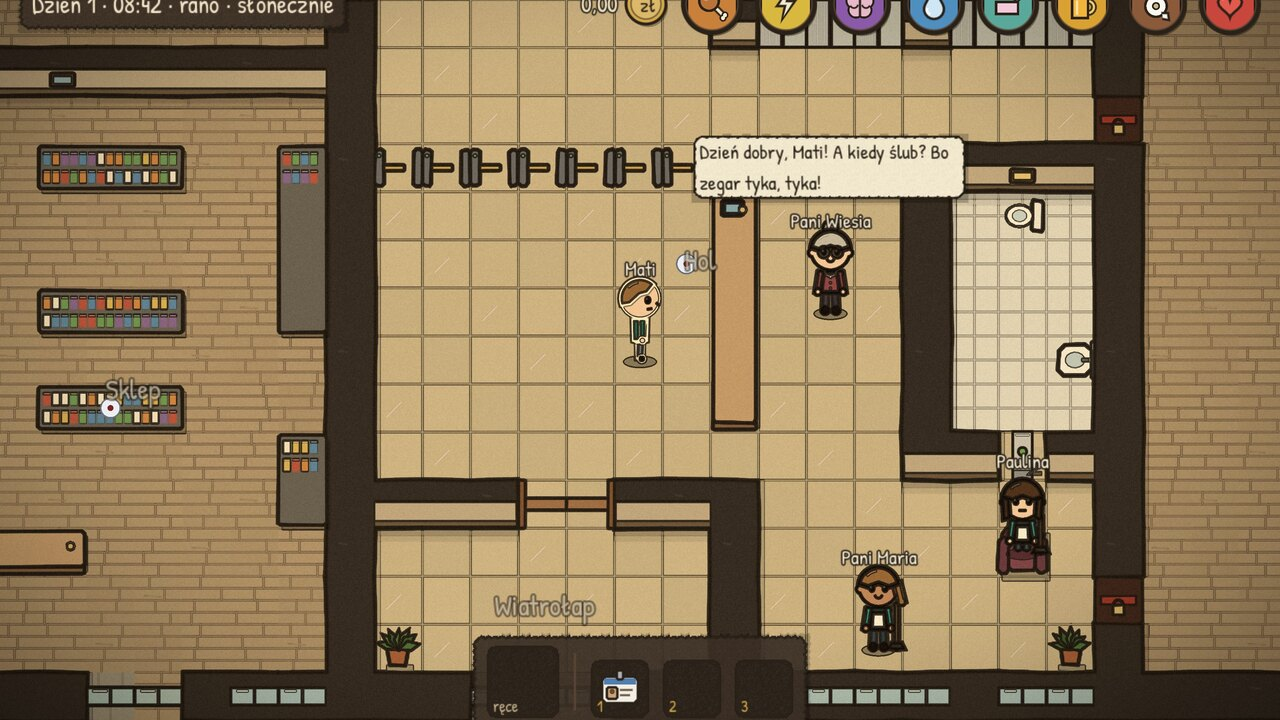
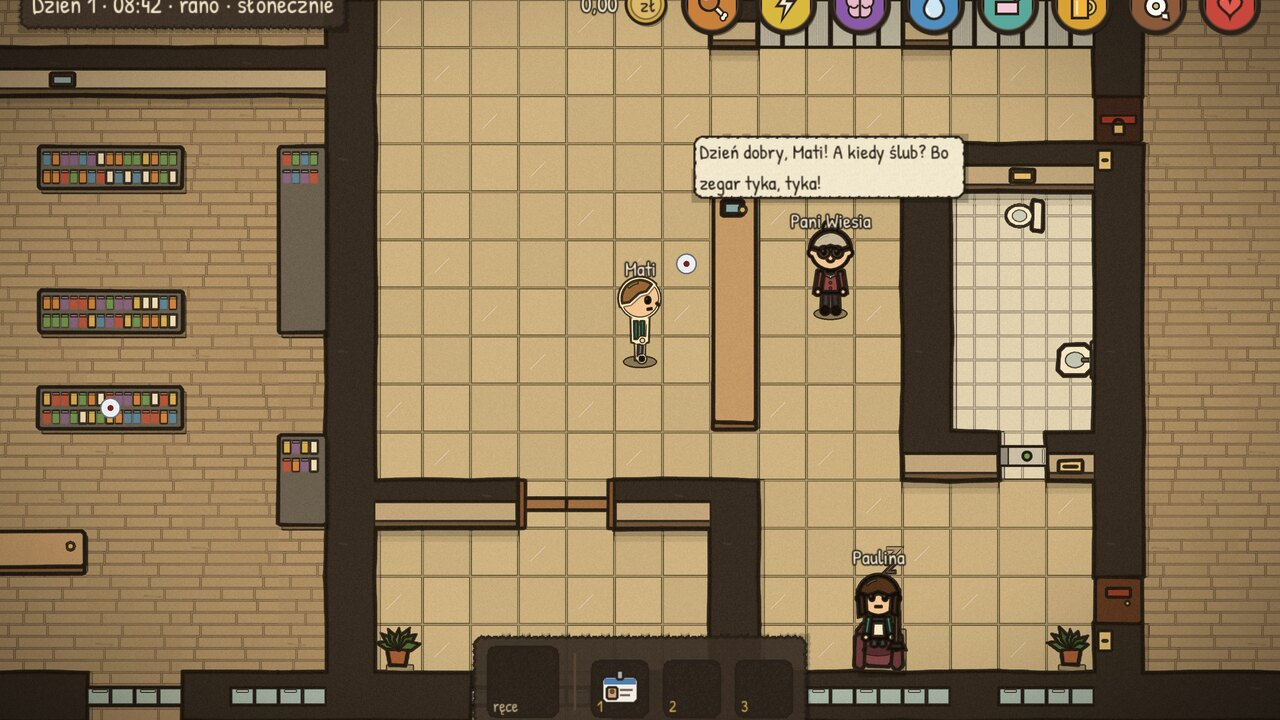
Nowy zwiastun i 4 zrzuty z mapy w README
- Zwiastun nagrany od nowa na obecnej mapie: deszcz - chodnikiem obok
  zamkniętego zjazdu do garażu pod wiatę palarni („Palarnia jak przystanek
  - autobus nie przyjedzie”), hol z panią Wiesią i Pauliną w fotelu,
  biuro, chill room (telewizor na nowym miejscu), sklep z kasjerem; GIF w
  README odświeżony.
- Galeria: 4 zrzuty z mapy (palarnia, portiernia, chill room, sklep)
  zamiast 10; w „Co jest w grze” bez „Psot” i „Oprawy”.

diff --git a/README.md b/README.md
@@ -12,7 +12,7 @@
 ![Rust](https://img.shields.io/badge/serwer-Rust-orange?logo=rust)
 ![Godot 4](https://img.shields.io/badge/klient-Godot%204-478cbf?logo=godotengine&logoColor=white)
 
-<img src="docs/media/zwiastun.gif" alt="Zwiastun: dojazd w deszczu, portiernia, biuro, chill room, sklep" width="720">
+<img src="docs/media/zwiastun.gif" alt="Zwiastun: palarnia w deszczu, portiernia, biuro, chill room, sklep" width="720">
 
 [**Pobierz na macOS**](https://github.com/mateuszpalak/startup-sim/releases/latest) ·
 [Sterowanie](docs/gra/sterowanie.md) ·
@@ -43,24 +43,12 @@ i tekstowym.
 
 <table>
   <tr>
-    <td width="50%"><img src="docs/media/portiernia.jpg" alt="Hol z portiernią"><br><sub>Pani Wiesia z portierni zawsze zagada</sub></td>
-    <td width="50%"><img src="docs/media/biuro.jpg" alt="Biuro"><br><sub>Biuro działu Biznes — inni gracze przy biurkach</sub></td>
+    <td width="50%"><img src="docs/media/portiernia.jpg" alt="Hol z portiernią"><br><sub>Pani Wiesia z portierni zawsze zagada (a Paulina siedzi w fotelu)</sub></td>
+    <td width="50%"><img src="docs/media/chill_room.jpg" alt="Chill room"><br><sub>Chill room: mecz w telewizorze, pilot w ręku</sub></td>
   </tr>
   <tr>
-    <td><img src="docs/media/chill_room.jpg" alt="Chill room"><br><sub>Chill room: mecz w telewizorze, pilot w ręku</sub></td>
-    <td><img src="docs/media/sklep.jpg" alt="Sklep"><br><sub>Sklep na parterze</sub></td>
-  </tr>
-  <tr>
-    <td><img src="docs/media/rekrutacja.jpg" alt="Formularz rekrutacyjny"><br><sub>Rekrutacja: portal z ofertami i formularz z widełkami</sub></td>
-    <td><img src="docs/media/umowa.jpg" alt="Umowa w HR"><br><sub>Umowa w HR — „drobna korekta, standard w branży”</sub></td>
-  </tr>
-  <tr>
-    <td><img src="docs/media/terminal.jpg" alt="Terminal"><br><sub>Firmowy komputer: terminal…</sub></td>
-    <td><img src="docs/media/przegladarka.jpg" alt="Przeglądarka"><br><sub>…i przeglądarka z wiadomościami z biura</sub></td>
-  </tr>
-  <tr>
-    <td><img src="docs/media/deszcz.jpg" alt="Dojazd w deszczu"><br><sub>Dojazd do pracy — pogoda zmienia się z dnia na dzień</sub></td>
-    <td><img src="docs/media/skret.jpg" alt="Skręcanie papierosa"><br><sub>Mini-gra: skręcanie papierosa</sub></td>
+    <td><img src="docs/media/palarnia.jpg" alt="Palarnia i zjazd do garażu"><br><sub>Palarnia jak przystanek (autobus nie przyjedzie) i zamknięty zjazd do garażu</sub></td>
+    <td><img src="docs/media/sklep.jpg" alt="Sklep"><br><sub>Sklep na parterze: „Jaka parówka wariacie?”</sub></td>
   </tr>
 </table>
 
@@ -82,10 +70,6 @@ i tekstowym.
   światło w oknach.
 - 🎙 **Razem** — czat głosowy (do pokoju albo szeptem), czat tekstowy,
   dziennik dnia i powiadomienia.
-- 😈 **Psoty** — alkohol z barku i jego skutki, nagany od zarządu, bójki,
-  ochrona i policja, sprzątaczka pani Maria.
-- 🎨 **Oprawa „papier i tusz”** — ręcznie rysowany wygląd, dźwięki i muzyka
-  generowane kodem.
 
 ## Pobierz i graj
 

diff --git a/tools/trailer/README.md b/tools/trailer/README.md
@@ -8,9 +8,10 @@ tools/trailer/record_all.sh     # ujęcia -> tools/trailer/out/<ujęcie>/*.jpg
 tools/trailer/build.sh          # -> tools/trailer/out/startup_sim_zwiastun.mp4
 ```
 
-Ujęcia (`record_all.sh`): plansza tytułowa, dojazd w deszczu, hol z panią
-Wiesią, biuro z botami, chill room (mecz w telewizorze, boombox), sklep na
-parterze. Każde to osobny serwer z flagami dev i klient z `--goto`; start
+Ujęcia (`record_all.sh`): plansza tytułowa, deszcz — chodnikiem obok
+zamkniętego zjazdu do garażu pod wiatę palarni, hol z panią Wiesią (i
+Pauliną w fotelu), biuro z botami, chill room (mecz w telewizorze, boombox),
+sklep na parterze („Jaka parówka wariacie?”). Każde to osobny serwer z flagami dev i klient z `--goto`; start
 nagrywania jest przesunięty o czas łączenia klienta.
 
 GIF do README (`docs/media/zwiastun.gif`, 640 px, 8 kl./s — GitHub nie
@@ -23,7 +24,7 @@ ffmpeg -framerate 8 -i $F/f%04d.png -vf "palettegen=max_colors=96:stats_mode=dif
 ffmpeg -framerate 8 -i $F/f%04d.png -i $F/pal.png -lavfi "paletteuse=dither=none:diff_mode=rectangle" docs/media/zwiastun.gif
 ```
 
-Zrzuty ekranu w `docs/media/` to klatki z `tools/trailer/out/<ujęcie>/`
+Zrzuty ekranu w `docs/media/` (4: palarnia, portiernia, chill room, sklep) to klatki z `tools/trailer/out/<ujęcie>/`
 przycięte do 1280×720 (`magick … -resize 1280x720^ -gravity center -extent 1280x720`).
 
 - `shoot.sh` — jedno ujęcie: serwer na porcie 7790 (flagi dev), opcjonalnie
